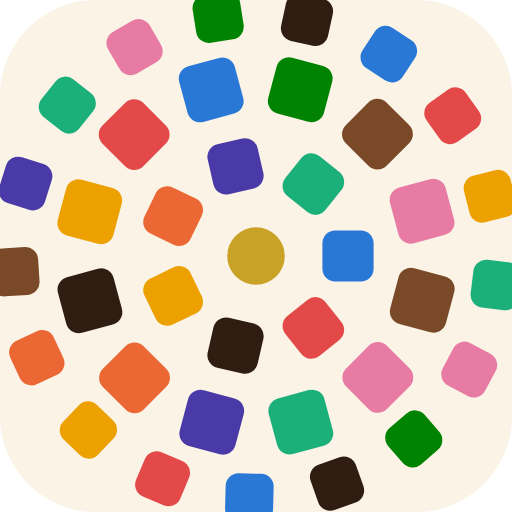
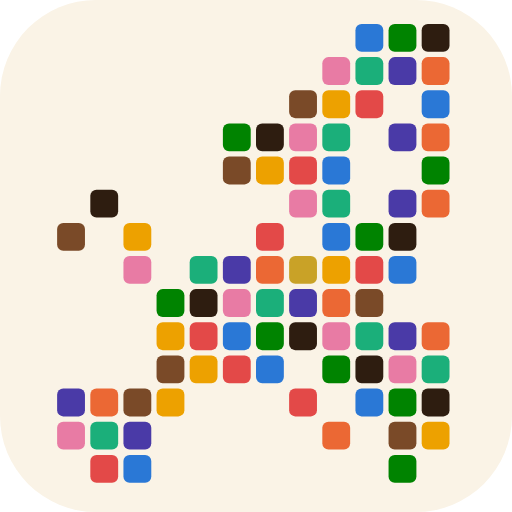
feat(brand): reshape the mark into the Mosaic of Europe (#264)

diff --git a/src/components/MosaicMark.vue b/src/components/MosaicMark.vue
@@ -1,15 +1,15 @@
 <script setup>
 /**
- * The Fontem mark — the Mosaic Spring. Tesserae of the platform's eight
- * categorical chart hues radiate in rings from a gold source-point
- * (fontem = the spring); onyx and umber "drawing stones" are woven
- * through the ring — in the mosaic craft the dark stones draw the
- * figure, so the mark doesn't hold together without them. On dark
- * grounds the drawing stones take a thin gold-glass rim (the Byzantine
- * trick) to stay legible against dusk.
+ * The Fontem mark — the Mosaic of Europe. Tesserae of the platform's
+ * eight categorical chart hues tile the silhouette of the continent
+ * (the grid below is rasterised from Fontem's own NUTS-0 boundaries).
+ * Onyx and umber "drawing stones" are woven through — in the mosaic
+ * craft the dark stones draw the figure, so it doesn't hold together
+ * without them, and neither does Europe. A single gold tessera near
+ * the centre is the source: fontem, the spring. On dark grounds the
+ * drawing stones take a thin gold-glass rim (the Byzantine trick) so
+ * they stay legible against dusk.
  *
- * The tesserae are computed (not hand-authored) so the geometry stays
- * one source of truth — the same construction the favicon uses.
  * Decorative by default (aria-hidden); the surrounding button/link
  * carries the accessible name.
  */
@@ -20,40 +20,55 @@ defineProps({
   size: { type: [Number, String], default: 28 },
 })
 
+// Europe as a low-res mask — one string per row, '#' = land. Rasterised
+// from the NUTS-0 country outlines the platform already serves.
+const GRID = [
+  '.........###', '........####', '.......###.#', '.....####.##',
+  '.....####..#', '.#.....##.##', '#.#...#.###.', '..#.#######.',
+  '...#######..', '...#########', '...####.####', '####...#.###',
+  '###.....#.##', '.##.......#.',
+]
+const COLS = 12
+const GOLD_C = 7
+const GOLD_R = 7
 const HUES = ['#2a78d6', '#1baf7a', '#eda100', '#008300', '#4a3aa7', '#e34948', '#e87ba4', '#eb6834']
 const ONYX = '#2e1d10'
 const UMBER = '#7a4a28'
-// [radius, count, tessera-size, angular offset] per ring, outward.
-const RINGS = [[11.5, 7, 6.4, 0], [21.5, 12, 7.2, 0.26], [30.2, 17, 6, 0.12]]
+const GOLD = '#c9a227'
 
-// Each fifth stone "draws" (onyx / umber alternating); the rest cycle
-// the categorical hues with a stride that keeps neighbours distinct.
+// Fit the grid into the 64-unit viewBox with a small margin.
+const AVAIL = 58
+const CELL = AVAIL / Math.max(COLS, GRID.length)
+const OX = (64 - COLS * CELL) / 2
+const OY = (64 - GRID.length * CELL) / 2
+
 const tesserae = computed(() => {
   const out = []
   let hue = 0
   let idx = 0
-  RINGS.forEach(([r, n, ts, off], ri) => {
-    for (let i = 0; i < n; i += 1) {
-      const a = off + (i * 2 * Math.PI) / n
-      const x = 32 + r * Math.cos(a)
-      const y = 32 + r * Math.sin(a)
-      const draws = idx % 5 === 2
-      let fill
-      if (draws) {
-        fill = idx % 10 === 2 ? ONYX : UMBER
-      } else {
-        fill = HUES[hue % HUES.length]
-        hue += ri === 1 ? 3 : 5
+  GRID.forEach((row, r) => {
+    for (let c = 0; c < COLS; c += 1) {
+      if (row[c] === '#') {
+        const s = CELL * 0.84
+        let fill
+        let kind = ''
+        if (c === GOLD_C && r === GOLD_R) {
+          fill = GOLD; kind = 'src'
+        } else if (idx % 5 === 2) {
+          fill = idx % 10 === 2 ? ONYX : UMBER; kind = 'draw'
+        } else {
+          fill = HUES[hue % HUES.length]; hue += 3
+        }
+        idx += 1
+        out.push({
+          x: +(OX + c * CELL).toFixed(2),
+          y: +(OY + r * CELL).toFixed(2),
+          s: +s.toFixed(2),
+          rx: +Math.max(0.4, s * 0.22).toFixed(2),
+          fill,
+          kind,
+        })
       }
-      idx += 1
-      out.push({
-        x: +(x - ts / 2).toFixed(2),
-        y: +(y - ts / 2).toFixed(2),
-        s: ts,
-        fill,
-        draws,
-        rot: `rotate(${((a * 180) / Math.PI + 90).toFixed(1)} ${x.toFixed(2)} ${y.toFixed(2)})`,
-      })
     }
   })
   return out
@@ -67,23 +82,20 @@ const tesserae = computed(() => {
   >
     <rect
       v-for="(t, i) in tesserae" :key="i"
-      :class="{ 'mm-draw': t.draws }"
-      :x="t.x" :y="t.y" :width="t.s" :height="t.s" rx="1.6"
-      :fill="t.fill" :transform="t.rot"
+      :class="{ 'mm-draw': t.kind === 'draw', 'mm-src': t.kind === 'src' }"
+      :x="t.x" :y="t.y" :width="t.s" :height="t.s" :rx="t.rx" :fill="t.fill"
     />
-    <circle cx="32" cy="32" r="3.6" fill="#c9a227" />
   </svg>
 </template>
 
 <style scoped>
 .mosaic-mark { display: block; }
-/* The drawing stones read fine on light grounds. On the dusk chrome of
-   dark mode they'd sink in, so they take the Byzantine gold-glass rim —
-   the same move as the favicon. */
+/* Drawing stones read on light grounds; on the dusk chrome of dark mode
+   they take the Byzantine gold-glass rim so the figure stays legible. */
 .mosaic-mark .mm-draw { stroke: none; }
-:global(html.dark) .mosaic-mark .mm-draw { stroke: #c9a227; stroke-width: 0.9; }
+:global(html.dark) .mosaic-mark .mm-draw { stroke: #c9a227; stroke-width: 0.5; }
 @media (prefers-color-scheme: dark) {
-  .mosaic-mark .mm-draw { stroke: #c9a227; stroke-width: 0.9; }
+  .mosaic-mark .mm-draw { stroke: #c9a227; stroke-width: 0.5; }
 }
 :global(html:not(.dark)) .mosaic-mark .mm-draw { stroke: none; }
 </style>

diff --git a/tests/unit/MosaicMark.test.js b/tests/unit/MosaicMark.test.js
@@ -2,24 +2,29 @@ import { describe, it, expect } from 'vitest'
 import { mount } from '@vue/test-utils'
 import MosaicMark from '../../src/components/MosaicMark.vue'
 
+// The mark tiles a low-res Europe silhouette; the grid has 82 land cells.
+const LAND = 82
+
 describe('MosaicMark', () => {
-  it('renders the tesserae ring + a gold source-point, decorative by default', () => {
+  it('tiles the Europe silhouette in tesserae, decorative by default', () => {
     const w = mount(MosaicMark)
     const svg = w.find('svg')
     expect(svg.exists()).toBe(true)
-    expect(svg.attributes('aria-hidden')).toBe('true') // name comes from the wrapper
-    // 36 tesserae + the central spring-point
-    expect(w.findAll('rect').length).toBe(36)
-    const dot = w.find('circle')
-    expect(dot.attributes('fill')).toBe('#c9a227') // manuscript gold
+    expect(svg.attributes('aria-hidden')).toBe('true')
+    expect(w.findAll('rect').length).toBe(LAND)
   })
 
-  it('weaves the dark drawing stones through the ring', () => {
+  it('marks a single gold source tile — fontem, the spring', () => {
+    const w = mount(MosaicMark)
+    const src = w.findAll('rect.mm-src')
+    expect(src.length).toBe(1)
+    expect(src[0].attributes('fill')).toBe('#c9a227')
+  })
+
+  it('weaves the dark drawing stones through the figure', () => {
     const w = mount(MosaicMark)
     const draw = w.findAll('rect.mm-draw')
-    // the dark stones are a minority but must be present — the mark
-    // does not hold together without them
-    expect(draw.length).toBeGreaterThanOrEqual(6)
+    expect(draw.length).toBeGreaterThanOrEqual(10)
     const fills = draw.map((r) => r.attributes('fill'))
     expect(fills).toContain('#2e1d10') // onyx
     expect(fills).toContain('#7a4a28') // umber

diff --git a/index.html b/index.html
@@ -7,9 +7,9 @@
     <title>Fontem — Follow the numbers, verify the claims</title>
     <meta name="description" content="Fontem — the primary-source transparency platform. EU companies, public procurement, lobbyists, and cohesion funding, linked into one graph and cross-checked against the official registers."/>
     <!--/ssr-head-->
-    <link rel="icon" type="image/svg+xml" href="/favicon.svg?v=mosaic"/>
-    <link rel="manifest" href="/manifest.json?v=mosaic"/>
-    <link rel="apple-touch-icon" href="/apple-touch-icon.png?v=mosaic"/>
+    <link rel="icon" type="image/svg+xml" href="/favicon.svg?v=europe"/>
+    <link rel="manifest" href="/manifest.json?v=europe"/>
+    <link rel="apple-touch-icon" href="/apple-touch-icon.png?v=europe"/>
     <meta name="theme-color" content="#1d4e9e"/>
     <meta name="apple-mobile-web-app-capable" content="yes"/>
     <meta name="apple-mobile-web-app-status-bar-style" content="black-translucent"/>
